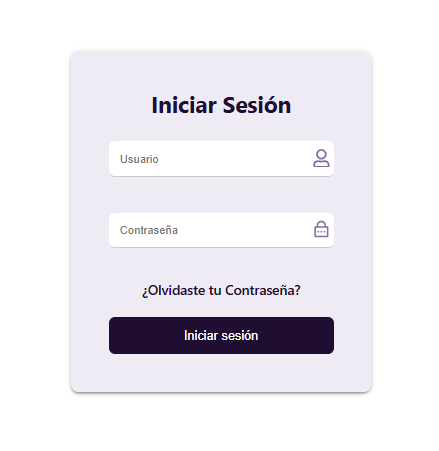
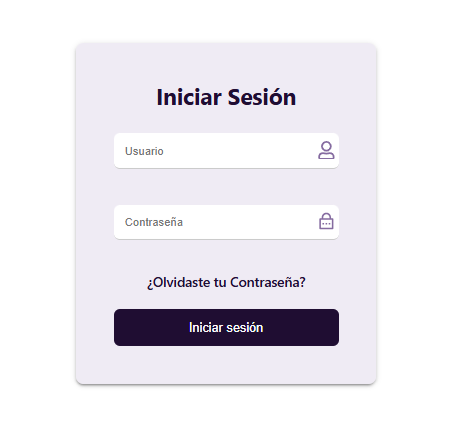
docs: update README with description section, app screenshots and remove quick overview title

diff --git a/readme.md b/readme.md
@@ -12,13 +12,12 @@
 
 </div>
 
-## Vistazo rápido
+## Descripción
+
+Market App es una aplicación de comercio electrónico que permite explorar productos, filtrarlos por categorías, gestionar un carrito de compras y completar pedidos mediante formularios validados.
 
 <div align="center">
-
-### ✨ Login exitoso y catálogo de productos
 <img src="src/assets/login-exitoso.png" alt="Login exitoso y catálogo" width="85%" />
-
 </div>
 
 | Filtrado por Categorías | Carrito de Compras |
@@ -27,12 +26,7 @@
 
 | Formulario de Envío | Pedido Exitoso |
 | :---: | :---: |
-| ![Formulario de envío](src/assets/formulario-vacio.png) | ![Pedido registrado con éxito](src/assets/pedido-exitoso.png) |
-
-| Inicio de Sesión | Error de Credenciales |
-| :---: | :---: |
-| ![Pantalla de login](src/assets/login.png) | ![Error de credenciales](src/assets/login-error.png) |
-
+| ![Pedido registrado con éxito](src/assets/pedido.png) | ![Pantalla de login](src/assets/login.png) |
 
 ## Funcionalidades
 
